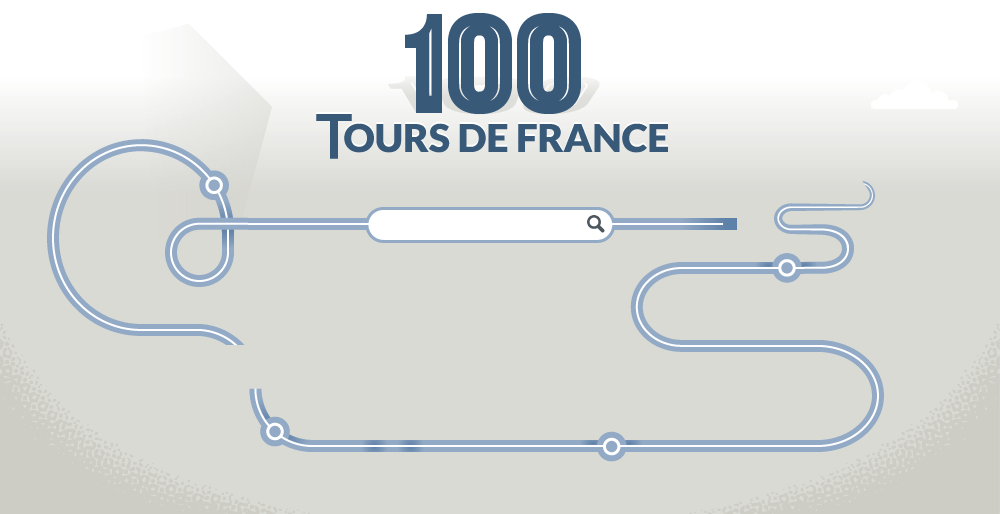
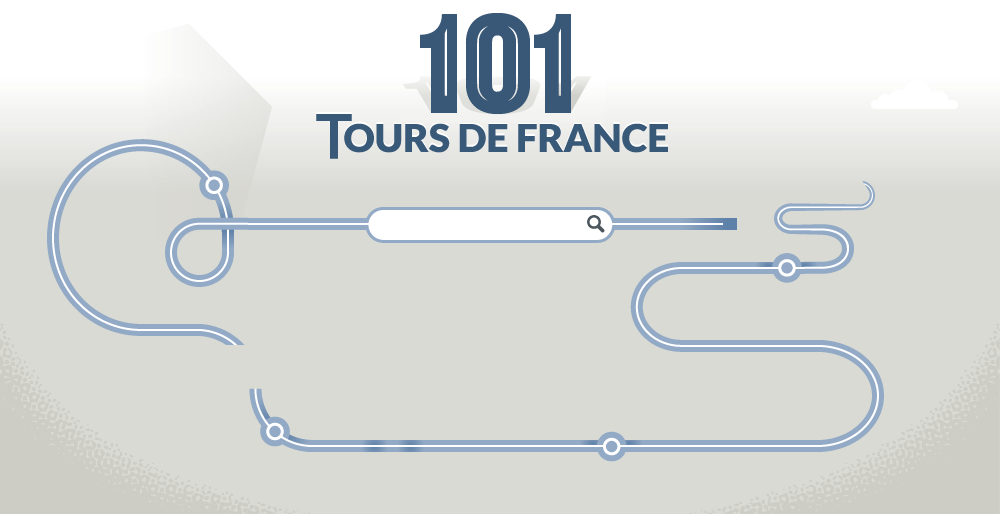
fixes

Changed region(s): [[0.403, 0.0, 0.589, 0.249]]

diff --git a/web/src/js/main.js b/web/src/js/main.js
@@ -484,7 +484,7 @@ TDF.Home = (function() {
 	my.name = 'home';
 
 	my.base_url = '/';
-	my.share_text = "Explorez les #données des 100 Tours de France : tracés, vainqueurs, lieux mythiques... #appli #data #TDF via @RFnvx";
+	my.share_text = "Explorez les #données des 101 Tours de France : tracés, vainqueurs, lieux mythiques... #appli #data #TDF via @RFnvx";
 
 	my.init = function() {
 		// Set handler ( only on first init )
@@ -595,7 +595,7 @@ TDF.CitySearch = (function() {
 
 	my.name = 'search';
 
-	my.share_text = "Explorez les #données des 100 Tours de France : tracés, vainqueurs, lieux mythiques... #appli #data #TDF via @RFnvx";
+	my.share_text = "Explorez les #données des 101 Tours de France : tracés, vainqueurs, lieux mythiques... #appli #data #TDF via @RFnvx";
 	my.share_hashtags = "appli,data,TDF";
 
 	my.gmapApi = null;
@@ -768,7 +768,7 @@ TDF.Traces = (function() {
 	my.data = null;
 	my.args = null;
 
-	my.share_text = "Découvrez les tracés des 100 éditions du Tour de France dans une #carte interactive #appli #data #TDF via @RFnvx";
+	my.share_text = "Découvrez les tracés des 101 éditions du Tour de France dans une #carte interactive #appli #data #TDF via @RFnvx";
 
 	my.city_years = [];
 	my.city_slider_set = false;
@@ -825,7 +825,7 @@ TDF.Traces = (function() {
 					Path.history.pushState({}, "", my.base_url + years.join(',') + '/');
 
 				} else {
-					Path.history.pushState({}, "", my.base_url + (my.last_clicked ? my.last_clicked : '2013') + '/');
+					Path.history.pushState({}, "", my.base_url + (my.last_clicked ? my.last_clicked : '2014') + '/');
 				}
 			}
 		});
@@ -833,7 +833,7 @@ TDF.Traces = (function() {
 		$main.on('click', '.traces #multi-select', function() {
 			if (my.state === null && !my.state_interval) {
 				if (!my.last_clicked) {
-					my.last_clicked = 2013;
+					my.last_clicked = 2014;
 				}
 				if (jQuery(this).prop('checked')) {
 					jQuery('.traces #start-pause').addClass('opaque');
@@ -899,7 +899,7 @@ TDF.Traces = (function() {
 					jQuery('.traces #multi-select').prop('disabled', 'disabled');
 					jQuery('.traces #select-all').prop('disabled', 'disabled');
 					jQuery('.traces #start-pause').addClass('active');
-					if (jQuery('.timeline-zoom input:checked').val() === '2013') {
+					if (jQuery('.timeline-zoom input:checked').val() === '2014') {
 						jQuery('.timeline-zoom li:first span').click();
 					} else {
 						// jQuery('.timeline-zoom input:checked').parent().next().find('span').click();
@@ -1079,7 +1079,7 @@ TDF.Traces = (function() {
 
 		if (my.args.years === undefined) {
 			if (my.args.city === undefined) {
-				my.args.years = [2013];
+				my.args.years = [2014];
 				my.city_years = [];
 				$main.find('#search').val('');
 			} else {
@@ -1308,13 +1308,13 @@ TDF.Traces = (function() {
 			width: Math.round((nb_concurrents - my.stats['nb_concurrents'].min.val) / (my.stats['nb_concurrents'].max.val - my.stats['nb_concurrents'].min.val) * line_length) + 'px'
 		});
 
-		$main.find(".nb_finishers .current").html((my.args.years.length === 0 || my.args.years[0] === 2013 || my.args.years[0] === '2013') ? 'N.C.' : nb_finishers + " à l'arrivée");
+		$main.find(".nb_finishers .current").html((my.args.years.length === 0 || my.args.years[0] === 2014 || my.args.years[0] === '2014') ? 'N.C.' : nb_finishers + " à l'arrivée");
 		$main.find(".nb_finishers .line").css({
 			width: Math.round((nb_finishers - my.stats['nb_finishers'].min.val) / (my.stats['nb_finishers'].max.val - my.stats['nb_finishers'].min.val) * line_length) + 'px'
 		});
 
 		// Winners
-		if (my.args.years.length === 1 && parseInt(my.args.years[0], 10) !== 2013) {
+		if (my.args.years.length === 1 && parseInt(my.args.years[0], 10) !== 2014) {
 			$main.find('.traces-right').removeClass('disabled');
 
 			trace = TDF.Data.traces[my.args.years[0]];

diff --git a/web/src/scss/_traces.scss b/web/src/scss/_traces.scss
@@ -38,21 +38,21 @@
 	overflow: hidden;
 	margin:10px 0 0 60px;
 	padding: 0;
-	width: 720px;
+	width: 727px;
 	height: 40px;
 	position:relative;
 }
 .traces .timeline-zoom ul {
 	margin: 0;
 	padding: 0;
-	width: 7200px;
+	width: 7270px;
 	height: 40px;
 	list-style: none;
 }
 
 .traces .timeline .slider {
 	position: absolute;
-	width: 720px;
+	width: 727px;
 	height: 18px;
 	margin: 0 0 0 41px;
 }
@@ -361,8 +361,8 @@
 	float:left;
 	height:75px;
 	margin:0;
-	padding:5px 15px 0 15px;
-	width:800px;
+	padding:5px 5px 0 15px;
+	width:810px;
 }
 
 .timeline-right {
